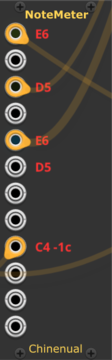
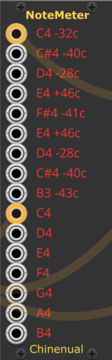
update Notemeter screenshots

diff --git a/README.md b/README.md
@@ -250,7 +250,7 @@ Outputs:
 
 ### NoteMeter
 
-![module-screenshot](./doc/NoteMeter.png) 
+![module-screenshot](./doc/NoteMeter-modes.png) 
 
 NoteMeter is a polyphonic metering module that displays note names
 from V/Oct inputs.	If the input voltage does not align exactly with a
@@ -259,9 +259,9 @@ note voltage it indicates the deviance from the closest note as
  
  Context menu:
 
- * **Sharps for Flats**: Choose to display notes as "sharps" (the default) or flats
- * **Display voltage instead of note name**: Choose to display the raw voltage value instead of a note name.
- * **Number decimal places in voltage display**: Set the precision of the numbers displayed for voltages.
+ * **Sharps for Flats**: Choose to display accidentals as "sharps" (the default) or flats
+ * **Display type**: Display Note Name, Voltage or V/Oct as Frequency (Hz)
+ * **Number decimal places in voltage/frequency display**: Set the precision of the numbers displayed for voltages and frequencies.
 
 
 ### Inv
